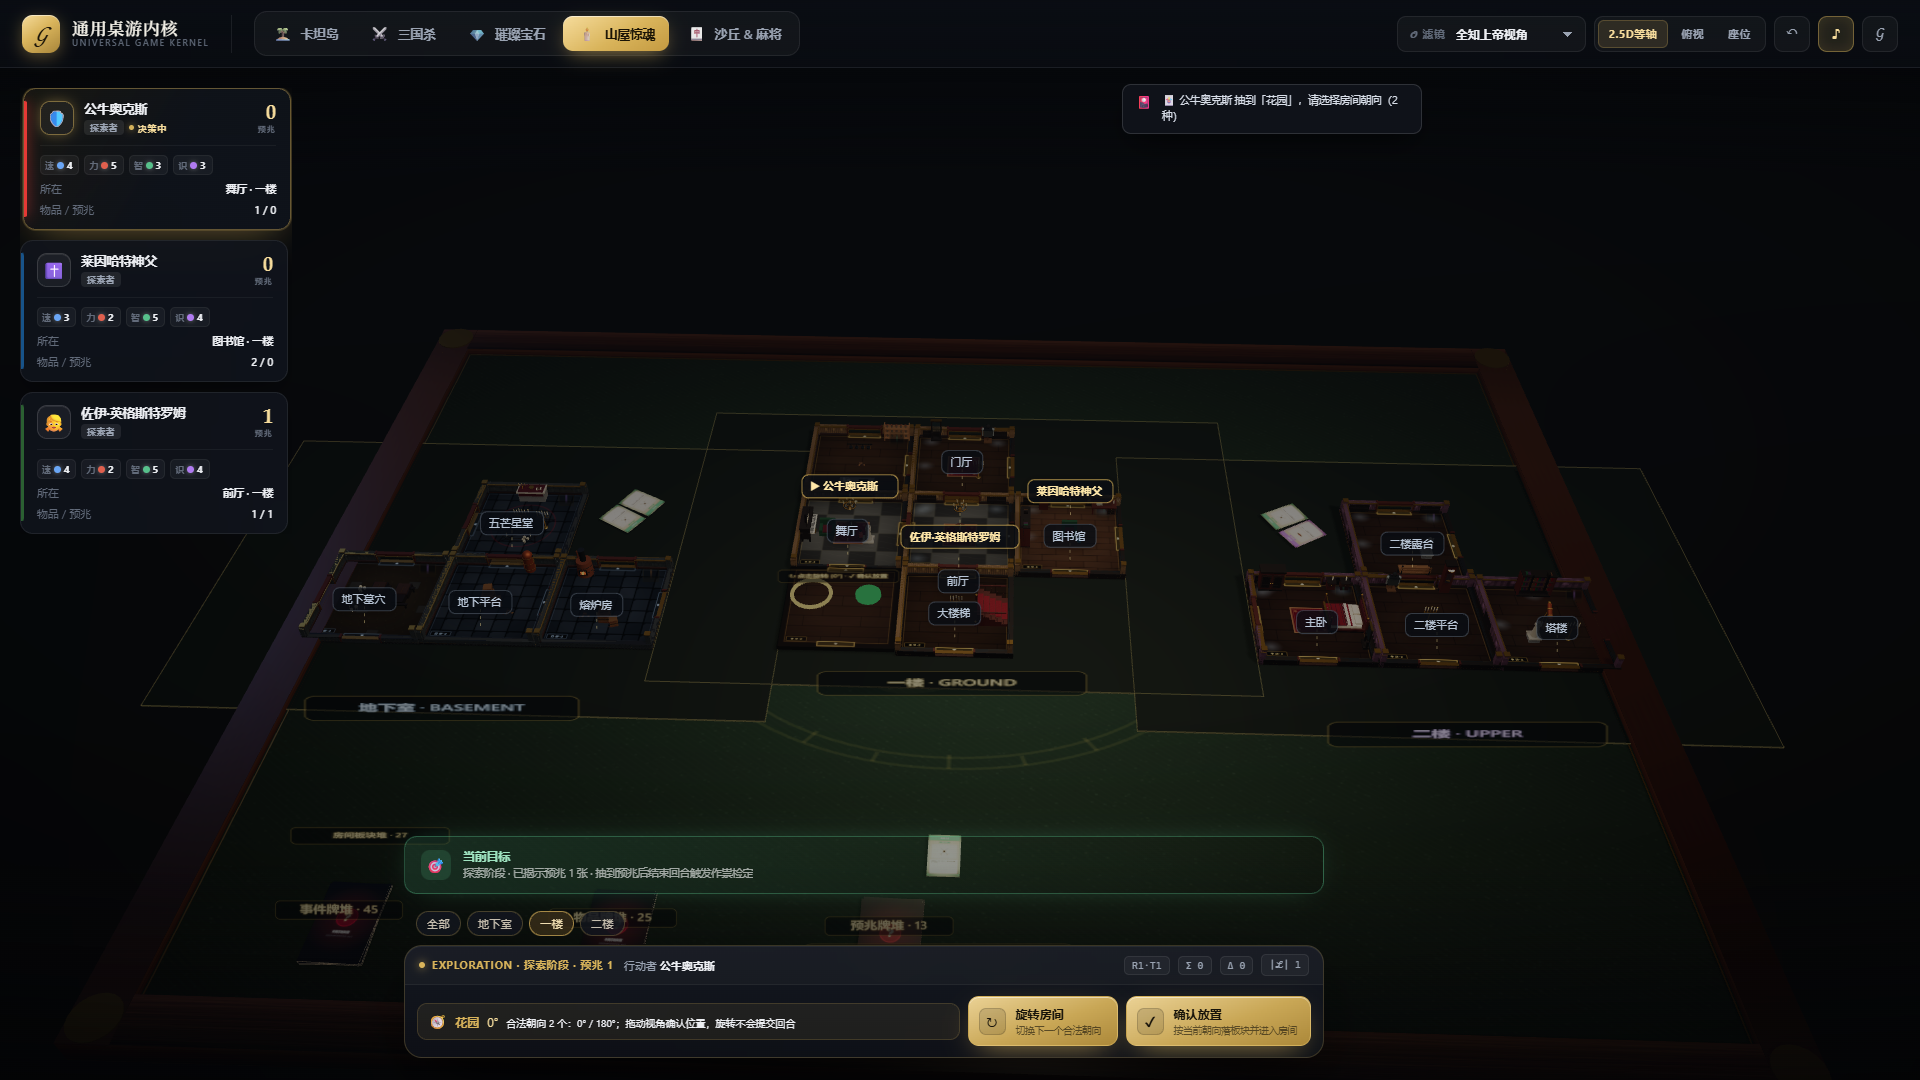
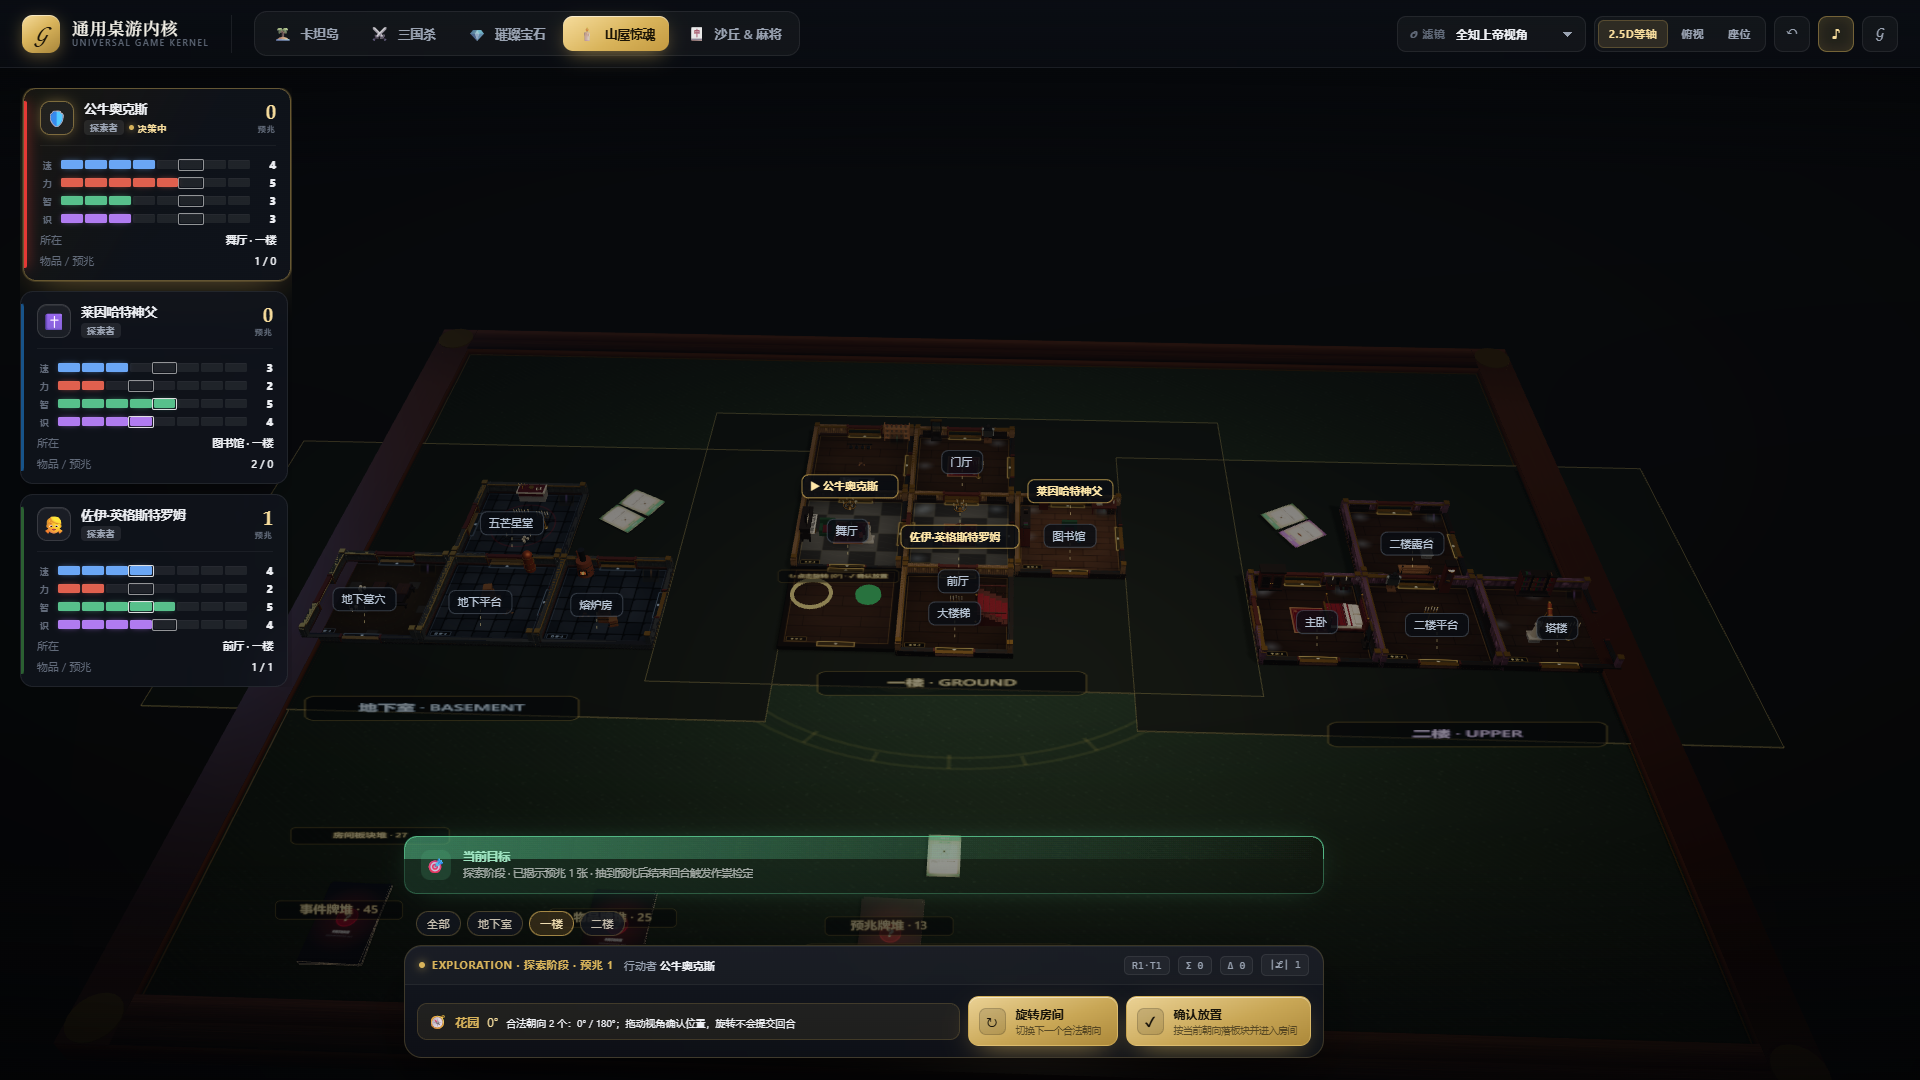
fix(render): eliminate z-fighting, memoise room meshes, harden camera restore
- room geometry constrained to tile footprint (plinth/threshold/lintel/crown)
- clone-safe preview materials (no more global palette ghosting)
- room mesh template cache with shared geometry, skipped on dispose
- camera tween timer fallback + cut-restore so throttled frames cannot strand the view
- character sheet trait ladders in the player rail

diff --git a/src/render/scene.ts b/src/render/scene.ts
@@ -84,6 +84,7 @@ export class BoardGameScene {
     duration: number;
   };
   private skipFitUntil = 0;
+  private cameraTweenTimer?: number;
   private previewObjects: THREE.Object3D[] = [];
   private hasFitted = false;
   private lastSyncMs = 0;
@@ -1039,7 +1040,8 @@ export class BoardGameScene {
   private disposeObject3D(root: THREE.Object3D): void {
     root.traverse(child => {
       const mesh = child as THREE.Mesh;
-      if (mesh.geometry) mesh.geometry.dispose();
+      // Room tiles are cloned from a cached template and share geometry.
+      if (mesh.geometry && !child.userData?.sharedGeometry) mesh.geometry.dispose();
       const material = (mesh as unknown as { material?: THREE.Material | THREE.Material[] }).material;
       if (!material) return;
       const materials = Array.isArray(material) ? material : [material];
@@ -1569,7 +1571,25 @@ export class BoardGameScene {
     const previous = this.prePlacementCamera;
     this.prePlacementCamera = undefined;
     this.skipFitUntil = performance.now() + 850;
-    if (previous) this.startCameraTween(previous.position, previous.target, 650);
+    if (!previous) return;
+    // Restore with a cut, not a tween. This is the last thing between the
+    // player and the finished board, and a stalled frame loop (background tab,
+    // heavy rebuild) would strand the camera up in the air with orbit controls
+    // still disabled.
+    this.cancelCameraTween();
+    this.camera.position.copy(previous.position);
+    this.controls.target.copy(previous.target);
+    this.controls.enabled = true;
+    this.controls.update();
+  }
+
+  /** Abort any in-flight camera tween and its safety timer. */
+  private cancelCameraTween(): void {
+    if (this.cameraTweenTimer !== undefined) {
+      window.clearTimeout(this.cameraTweenTimer);
+      this.cameraTweenTimer = undefined;
+    }
+    this.cameraTween = undefined;
   }
 
   private startCameraTween(
@@ -1586,6 +1606,27 @@ export class BoardGameScene {
       duration
     };
     this.controls.enabled = false;
+    // rAF stalls in background tabs would otherwise freeze the camera mid-tween
+    // with the orbit controls permanently disabled. Force the final pose.
+    if (this.cameraTweenTimer !== undefined) window.clearTimeout(this.cameraTweenTimer);
+    this.cameraTweenTimer = window.setTimeout(() => {
+      this.cameraTweenTimer = undefined;
+      this.finishCameraTween();
+    }, duration + 60);
+  }
+
+  /** Snap the active camera tween to its destination and hand control back. */
+  private finishCameraTween(): void {
+    const tween = this.cameraTween;
+    if (!tween) {
+      this.controls.enabled = true;
+      return;
+    }
+    this.camera.position.copy(tween.toPosition);
+    this.controls.target.copy(tween.toTarget);
+    this.cameraTween = undefined;
+    this.controls.enabled = true;
+    this.controls.update();
   }
 
   private updateCameraTween(now: number): void {
@@ -1596,9 +1637,11 @@ export class BoardGameScene {
     this.camera.position.lerpVectors(tween.fromPosition, tween.toPosition, eased);
     this.controls.target.lerpVectors(tween.fromTarget, tween.toTarget, eased);
     if (t >= 1) {
-      this.cameraTween = undefined;
-      this.controls.enabled = true;
-      this.controls.update();
+      if (this.cameraTweenTimer !== undefined) {
+        window.clearTimeout(this.cameraTweenTimer);
+        this.cameraTweenTimer = undefined;
+      }
+      this.finishCameraTween();
     }
   }
 
@@ -1615,16 +1658,21 @@ export class BoardGameScene {
     );
     group.position.set(placement.position[0], placement.position[1] + 0.12, placement.position[2]);
     group.rotation.y = -placement.rotation * (Math.PI / 2);
+    // Clone the materials before mutating: the palette is shared by every room,
+    // so editing it here would ghost the whole board.
     group.traverse(child => {
       const mesh = child as THREE.Mesh;
       if (!mesh.isMesh) return;
-      const materials = Array.isArray(mesh.material) ? mesh.material : [mesh.material];
-      for (const material of materials) {
-        if (!material) continue;
-        material.transparent = true;
-        material.opacity = 0.82;
-        material.depthWrite = false;
-      }
+      const source = Array.isArray(mesh.material) ? mesh.material : [mesh.material];
+      const cloned = source.map(material => {
+        if (!material) return material;
+        const copy = material.clone();
+        copy.transparent = true;
+        copy.opacity = 0.8;
+        copy.depthWrite = false;
+        return copy;
+      });
+      mesh.material = Array.isArray(mesh.material) ? cloned : cloned[0];
     });
     this.boardObjectsGroup.add(group);
     this.previewObjects.push(group);

diff --git a/src/app/session.ts b/src/app/session.ts
@@ -896,10 +896,38 @@ export class UniversalSession implements GamePresenter {
           ...(player.alive ? [] : [{ label: '状态', value: '💀 已死亡' }])
         ];
         base.pips = [
-          { color: '#6aa6f5', label: `速度（初始 ${Number(start.speed ?? traits.speed ?? 0)}）`, short: '速', value: String(traits.speed ?? '-') },
-          { color: '#e0604e', label: `力量（初始 ${Number(start.might ?? traits.might ?? 0)}）`, short: '力', value: String(traits.might ?? '-') },
-          { color: '#57c08b', label: `神智（初始 ${Number(start.sanity ?? traits.sanity ?? 0)}）`, short: '智', value: String(traits.sanity ?? '-') },
-          { color: '#b07bf0', label: `知识（初始 ${Number(start.knowledge ?? traits.knowledge ?? 0)}）`, short: '识', value: String(traits.knowledge ?? '-') }
+          {
+            color: '#6aa6f5',
+            label: `速度（初始 ${Number(start.speed ?? traits.speed ?? 0)}）`,
+            short: '速',
+            value: String(traits.speed ?? '-'),
+            max: 8,
+            start: Number(start.speed ?? 0)
+          },
+          {
+            color: '#e0604e',
+            label: `力量（初始 ${Number(start.might ?? traits.might ?? 0)}）`,
+            short: '力',
+            value: String(traits.might ?? '-'),
+            max: 8,
+            start: Number(start.might ?? 0)
+          },
+          {
+            color: '#57c08b',
+            label: `神智（初始 ${Number(start.sanity ?? traits.sanity ?? 0)}）`,
+            short: '智',
+            value: String(traits.sanity ?? '-'),
+            max: 8,
+            start: Number(start.sanity ?? 0)
+          },
+          {
+            color: '#b07bf0',
+            label: `知识（初始 ${Number(start.knowledge ?? traits.knowledge ?? 0)}）`,
+            short: '识',
+            value: String(traits.knowledge ?? '-'),
+            max: 8,
+            start: Number(start.knowledge ?? 0)
+          }
         ];
       } else if (state.gameId === 'dune_mahjong') {
         const openWindow = state.pendingDecisions.find(w => w.status === 'OPEN');

diff --git a/src/ui/hud.ts b/src/ui/hud.ts
@@ -483,9 +483,36 @@ export class BoardGameHUD {
               .join('')}</div>`
           : '';
 
+        // Betrayal traits carry a printed 0..8 track: draw a character-sheet
+        // style ladder with the start value ringed instead of a flat pill.
+        const ladder = player.pips.filter(pip => typeof pip.max === 'number' && pip.max > 0);
+        const plainPips = player.pips.filter(pip => !(typeof pip.max === 'number' && pip.max > 0));
+
+        const traitRows = ladder.length
+          ? `<div class="pc-traits">${ladder
+              .map(pip => {
+                const max = pip.max ?? 8;
+                const value = Number(pip.value);
+                const start = Number(pip.start ?? -1);
+                const segs = Array.from({ length: max })
+                  .map((_, index) => {
+                    const on = Number.isFinite(value) && index < value ? 'on' : '';
+                    const mark = index === start ? 'start' : '';
+                    return `<span class="trait-seg ${on} ${mark}"></span>`;
+                  })
+                  .join('');
+                return `<div class="trait-row ${player.alive ? '' : 'dead'}" style="--trait-color:${pip.color}" title="${pip.label}">
+                  <span class="trait-key">${pip.short ?? ''}</span>
+                  <span class="trait-track">${segs}</span>
+                  <span class="trait-val">${pip.value}</span>
+                </div>`;
+              })
+              .join('')}</div>`
+          : '';
+
         const pips =
-          player.pips.length > 0
-            ? `<div class="pc-pips">${player.pips
+          plainPips.length > 0
+            ? `<div class="pc-pips">${plainPips
                 .map(
                   pip =>
                     `<span class="pip" title="${pip.label}">${
@@ -514,6 +541,7 @@ export class BoardGameHUD {
             </div>
             <div class="pc-body">
               ${hp}
+              ${traitRows}
               ${pips}
               ${stats}
             </div>

diff --git a/src/render/procedural/roomTile.ts b/src/render/procedural/roomTile.ts
@@ -494,6 +494,9 @@ export class RoomTileBuilder {
 
   private static wallpaperCache = new Map<string, THREE.MeshStandardMaterial>();
 
+  /** Memoised room templates: cloning beats rebuilding on every board sync. */
+  private static meshCache = new Map<string, THREE.Group>();
+
   /**
    * Pooled wall material with a procedural damask / stone wallpaper.
    * One material per (floor, palette) keeps draw calls and GPU uploads flat.
@@ -802,6 +805,11 @@ export class RoomTileBuilder {
   /**
    * Builds the complete 2.5D room: floor slab, cutaway walls with trim,
    * door openings, a door-aware furniture layout, and merged draw calls.
+   *
+   * Results are memoised per tile signature: a room always looks the same, so
+   * rebuilds clone a template instead of re-running the layout and the ~600
+   * geometry constructions. Clones share geometry, which the renderer must not
+   * dispose (see `userData.sharedGeometry`).
    */
   public static createRoomMesh(
     name: string,
@@ -815,6 +823,12 @@ export class RoomTileBuilder {
     const isPreview = options?.isPreview ?? false;
     const isBasement = floor === 'BASEMENT';
     const scale = size / TILE;
+
+    const cacheKey = `${roomId}|${name}|${size}|${color}|${[...doors].sort().join('')}|${floor}`;
+    if (!isPreview) {
+      const cached = this.meshCache.get(cacheKey);
+      if (cached) return cached.clone(true);
+    }
 
     const shell = new THREE.Group();
 
@@ -914,7 +928,14 @@ export class RoomTileBuilder {
 
     const merged = mergeByMaterial(shell);
     merged.scale.set(scale, scale, scale);
-    return merged;
+    if (isPreview) return merged;
+
+    // Mark every merged geometry as shared so clones survive board rebuilds.
+    merged.traverse(node => {
+      node.userData.sharedGeometry = true;
+    });
+    this.meshCache.set(cacheKey, merged);
+    return merged.clone(true);
   }
 }
 

diff --git a/src/ui/styles.css b/src/ui/styles.css
@@ -655,6 +655,79 @@ body {
   letter-spacing: 0.02em;
 }
 
+/* ---- Betrayal trait ladder: character-sheet style 0..8 track ------------- */
+.pc-traits {
+  display: flex;
+  flex-direction: column;
+  gap: 3px;
+  margin-top: 2px;
+}
+
+.trait-row {
+  display: grid;
+  grid-template-columns: 15px 1fr 20px;
+  align-items: center;
+  gap: 6px;
+}
+
+.trait-key {
+  font-size: 9px;
+  font-weight: 800;
+  color: var(--faint);
+  letter-spacing: 0.04em;
+  text-align: center;
+}
+
+.trait-track {
+  display: flex;
+  gap: 2px;
+  height: 9px;
+  align-items: stretch;
+}
+
+.trait-seg {
+  flex: 1;
+  border-radius: 1.5px;
+  background: rgba(255, 255, 255, 0.07);
+  border-top: 1px solid rgba(255, 255, 255, 0.03);
+  position: relative;
+}
+
+.trait-seg.on {
+  background: var(--trait-color, #8b93a1);
+  box-shadow: 0 0 6px -2px var(--trait-color, #8b93a1);
+}
+
+/* Hollow ring marks the printed starting value of the trait track. */
+.trait-seg.start::after {
+  content: '';
+  position: absolute;
+  inset: -2px;
+  border: 1px solid rgba(255, 255, 255, 0.55);
+  border-radius: 2px;
+}
+
+.trait-seg.start.on::after {
+  border-color: rgba(255, 255, 255, 0.85);
+}
+
+.trait-val {
+  font-size: 11px;
+  font-weight: 800;
+  color: var(--text);
+  text-align: right;
+  font-variant-numeric: tabular-nums;
+}
+
+.trait-row.dead .trait-seg.on {
+  background: #6b2020;
+  box-shadow: none;
+}
+
+.trait-row.dead .trait-val {
+  color: #8a5a5a;
+}
+
 .hp-track {
   display: flex;
   gap: 3px;

diff --git a/src/app/contracts.ts b/src/app/contracts.ts
@@ -99,7 +99,17 @@ export interface UiPlayer {
   roleClass?: string;
   isFocus: boolean;
   stats: { label: string; value: string }[];
-  pips: { color: string; label: string; value: string; short?: string; icon?: string }[];
+  pips: {
+    color: string;
+    label: string;
+    value: string;
+    short?: string;
+    icon?: string;
+    /** Track length when the game uses a printed 0..max ladder. */
+    max?: number;
+    /** Printed starting position, rendered as a hollow marker. */
+    start?: number;
+  }[];
   hp?: { current: number; max: number };
 }
 
